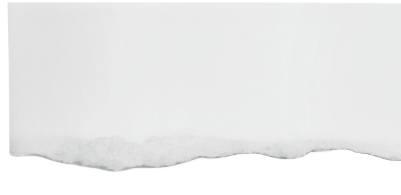
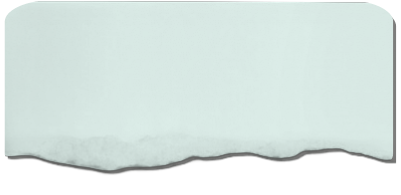
added final animation styling to vieewbox - can be merged ga . everything is working

diff --git a/components/GratitudeStatementContainer/GratitudeStatementContainer.js b/components/GratitudeStatementContainer/GratitudeStatementContainer.js
@@ -21,28 +21,19 @@ export default function GratitudeStatementContainer({ randomGratitudeStatement, 
             <>
                 <div className="outside-viewbox z-0 top-0 left-0 fixed h-screen w-screen flex"
                     onClick={handleClose}>
-                    <div
-                        className={`${styles.statementBox}`}>
 
-                        {/* <button
-                            type="button"
-                            id="closeButton"
-                            name="closeButton"
-                            onClick={handleClose}
-                            className="cancelButton top-4 right-4 pr-3 pt-3 place-self-end text-white/60 text-lg"
-                        >
-                            ⓧ
-                        </button> */}
+                    <div
+                        className={styles.viewbox}>
 
                         <p
-                            className="statement text-left place-self-start pl-5 pb-4 pt-5 h-full"
+                            className="statement text-left place-self-start p-4 w-full h-full"
                         >{randomGratitudeStatement.statementText}</p>
 
                         <p
                             className="date-statement right-3 place-self-end text-xs pb-10  pr-3"
                         >{randomGratitudeStatement.dateCreation}</p>
                     </div >
-                </div>
+                </div >
             </>
         )
     }

diff --git a/components/GratitudeStatementContainer/GratitudeStatementContainer.module.css b/components/GratitudeStatementContainer/GratitudeStatementContainer.module.css
@@ -12,8 +12,10 @@
   align-items: center;
   justify-self: center;
   justify-content: space-between;
-  border-radius: 8px;
+  border-top-right-radius: 10px;
+  border-top-left-radius: 10px;
 
+  opacity: 0.8;
   background-image: url("/white-torn-paper-example.png");
   background-repeat: no-repeat;
   background-position: center;
@@ -23,7 +25,47 @@
   height: 180px;
   color: black;
   font-size: 12px;
+
+  /* Animation */
+  animation-name: fade-in;
+  animation-duration: 1s;
+  /* animation-delay: 0.15s;  */
+  animation-timing-function: ease-in-out;
 }
+
+@keyframes fade-in {
+  from {
+    opacity: 0;
+    transform: translateY(-50px);
+  }
+  to {
+    opacity: 0.8;
+    transform: translateY(0);
+  }
+}
+/* 
+.viewboxLayer {
+  background-color: #98b0a9ff;
+  opacity: 0.4;
+  z-index: 11;
+  position: fixed;
+  padding: 3px;
+  margin: 3px;
+  margin-top: 60px;
+  right: 50px;
+  left: 50px;
+  bottom: 250px;
+  display: flex;
+  flex-direction: column;
+  align-items: center;
+  justify-self: center;
+  justify-content: space-between;
+  border-top-left-radius: 8px;
+  border-top-right-radius: 8px;
+
+  width: 299px;
+  height: 180px;
+} */
 /* 
 .statementBox {
   z-index: 10;
